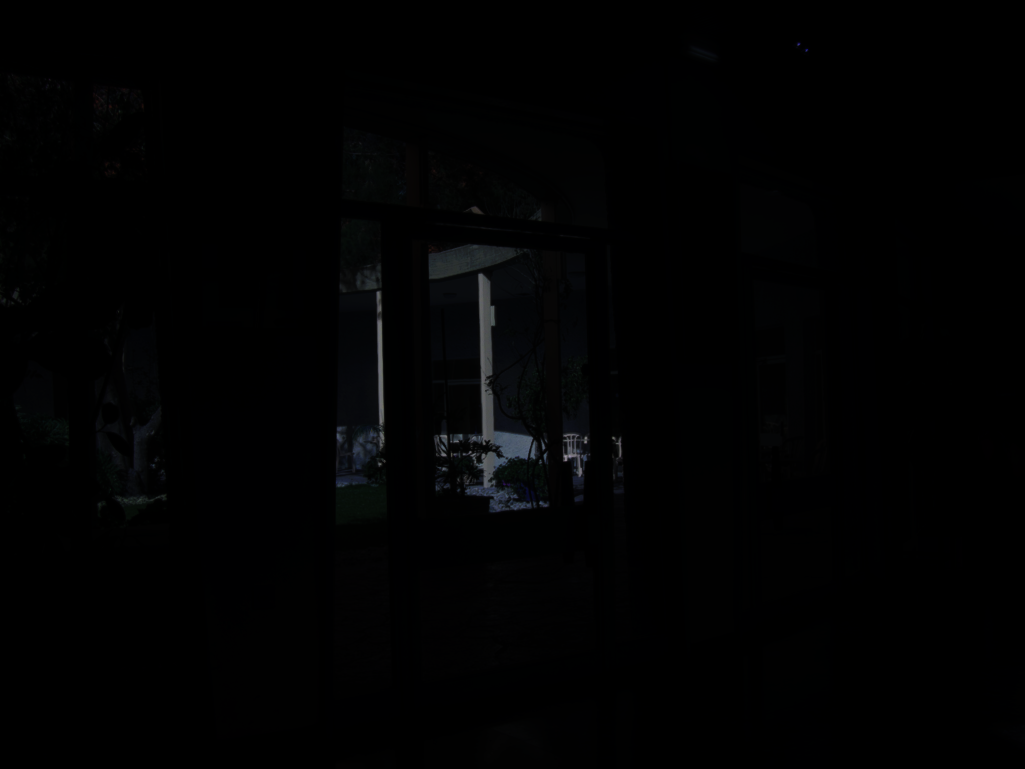
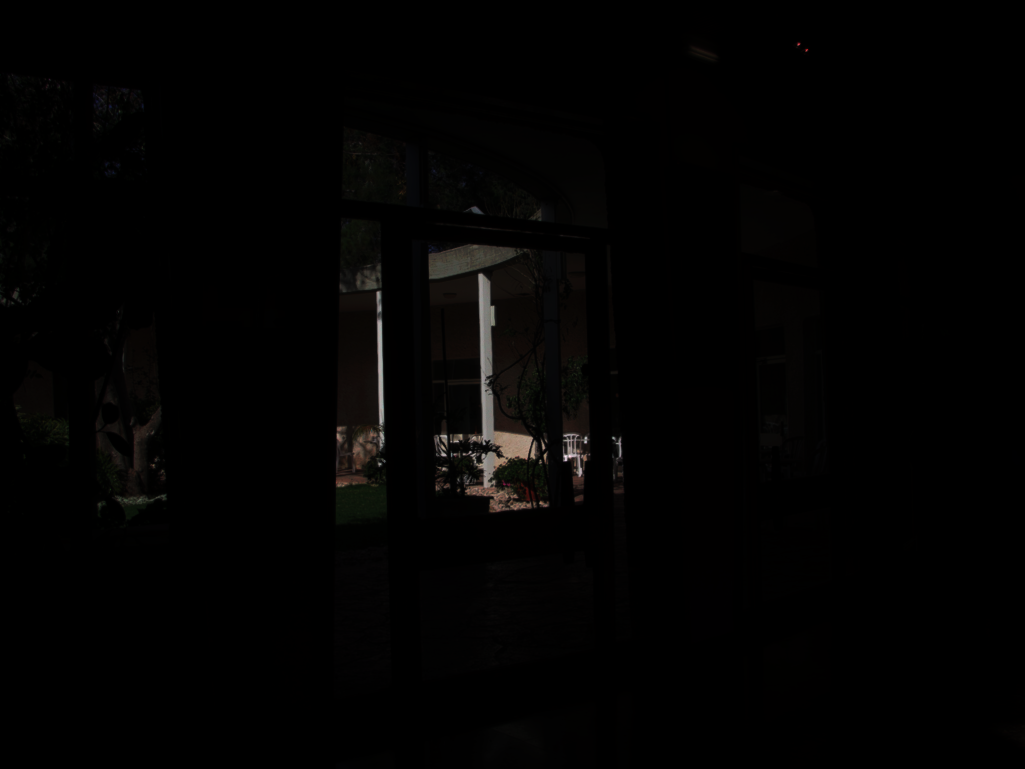
Finetune parameters

Changed region(s): [[0.4059, 0.3121, 0.5932, 0.6866], [0.3122, 0.3433, 0.3746, 0.6554]]

diff --git a/hdrc.py b/hdrc.py
@@ -154,8 +154,8 @@ def solve_poisson_equation(div_G, args):
         x = 1.0 / D_csr.diagonal() * (b_csr - neighbor)
         
         delta = np.linalg.norm(x - x_prev)
-        if iter % 100 == 0:
-            print(delta)
+        # if iter % 100 == 0:
+            # print(delta)
         if delta < args.tolerance:
             break
     return x.reshape(H, W)
@@ -171,7 +171,7 @@ if __name__ == "__main__":
     arg_parser.add_argument("--alpha", type=float, default=0.18, help="Max \"small\" gradient")
     arg_parser.add_argument("--beta", type=float, default=0.87, help="Attenuation factor for large gradients")
     arg_parser.add_argument("--saturation", type=float, default=0.55, help="Color saturation of the resulting image")
-    arg_parser.add_argument("--max_iterations", type=int, default=3000, help="Max number of iterations to run the Jacobi Poisson solver")
+    arg_parser.add_argument("--max_iterations", type=int, default=10000, help="Max number of iterations to run the Jacobi Poisson solver")
     arg_parser.add_argument("--tolerance", type=float, default=1e-1, help="Tolerance to stop iterating the Jacobi Poisson solver")
     arg_parser.add_argument("--gamma", type=float, default=2.2, help="Global gamma tone mapping")
     args = arg_parser.parse_args()
@@ -201,8 +201,9 @@ if __name__ == "__main__":
     attenuation = scaling_factor_pyramid[-1]
     for level in range(len(scaling_factor_pyramid)-2, -1, -1):
         attenuation = resize(attenuation, scaling_factor_pyramid[level].shape) * scaling_factor_pyramid[level]
+    attenuation = np.clip(attenuation, 0.0, 1.0)
     if args.save_att:
-        cv2.imwrite(f"{args.output_folder}/{args.source.split('/')[-1][:-4]}_attenuation.png", (np.clip(attenuation, 0.0, 1.0) * 255.0).astype(np.uint8))
+        cv2.imwrite(f"{args.output_folder}/{args.source.split('/')[-1][:-4]}_attenuation.png", (attenuation * 255.0).astype(np.uint8))
 
     # Calculate attenuated gradients, namely G(x, y)
     attenuated_grad_x, attenuated_grad_y = calculate_attenuated_gradients(hdr_lum_log, attenuation)
@@ -218,15 +219,25 @@ if __name__ == "__main__":
     output = np.zeros(hdr_rad_map_rgb.shape).astype(np.float32)
     for c in range(3):
         output[:, :, c] = (hdr_rad_map_rgb[:, :, c] / hdr_rad_map_xyz[:, :, 1]) ** args.saturation * I
-    
+
     # Rescale the output
     output_clip = (np.clip(output, 0.0, 1.0) * 255.0).astype(np.uint8)[:, :, ::-1]
+    output_clip_gamma = (np.clip(np.power(output, 1.0 / args.gamma), 0.0, 1.0) * 255.0).astype(np.uint8)[:, :, ::-1]
+    
     output_norm = (normalize(output) * 255.0).astype(np.uint8)[:, :, ::-1]
+    output_norm_gamma = (normalize(np.power(output, 1.0 / args.gamma)) * 255.0).astype(np.uint8)[:, :, ::-1]
 
-    # Save the output
+    output_linear = (normalize(hdr_rad_map_rgb) * 255.0).astype(np.uint8)[:, :, ::-1]
+    output_gamma = (normalize(np.power(hdr_rad_map_rgb, 1.0 / args.gamma)) * 255.0).astype(np.uint8)[:, :, ::-1]
+
+    # save the output
     cv2.imwrite(f"{args.output_folder}/{args.source.split('/')[-1][:-4]}_ldr_clip.png", output_clip)
+    cv2.imwrite(f"{args.output_folder}/{args.source.split('/')[-1][:-4]}_ldr_clip_gamma.png", output_clip_gamma)
+
     cv2.imwrite(f"{args.output_folder}/{args.source.split('/')[-1][:-4]}_ldr_norm.png", output_norm)
-    cv2.imwrite(f"{args.output_folder}/{args.source.split('/')[-1][:-4]}_ldr_linear.png", hdr_rad_map_rgb[:, :, ::-1] * 255.0)
-    cv2.imwrite(f"{args.output_folder}/{args.source.split('/')[-1][:-4]}_ldr_gamma.png", np.power(hdr_rad_map_rgb[:, :, ::-1], 1.0 / args.gamma) * 255.0)
+    cv2.imwrite(f"{args.output_folder}/{args.source.split('/')[-1][:-4]}_ldr_norm_gamma.png", output_norm_gamma)
+
+    cv2.imwrite(f"{args.output_folder}/{args.source.split('/')[-1][:-4]}_ldr_linear.png", output_linear)
+    cv2.imwrite(f"{args.output_folder}/{args.source.split('/')[-1][:-4]}_ldr_gamma.png", output_gamma)
 
     print("Done.")

diff --git a/README.md b/README.md
@@ -3,7 +3,7 @@ Implementation of Gradient Domain HDR Compression in CUDA.
 
 Gamma vs Gradient Domain Compression
 
-<img src="output/belgium_ldr_gamma.png" width="400"/>  <img src="output/belgium_ldr_norm.png" width="400"/>
+<img src="output/bigFogMap_ldr_gamma.png" width="250"/>  <img src="output/bigFogMap_ldr_norm.png" width="250"/>
 
 Attenuation map of the Belgium House scene.
 
